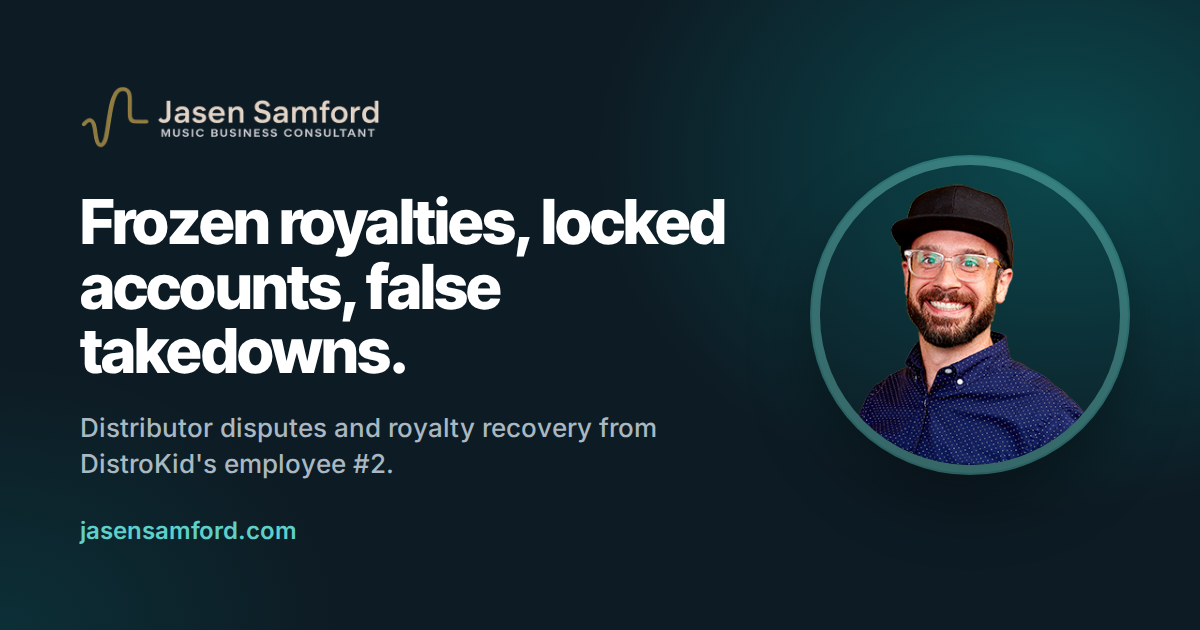
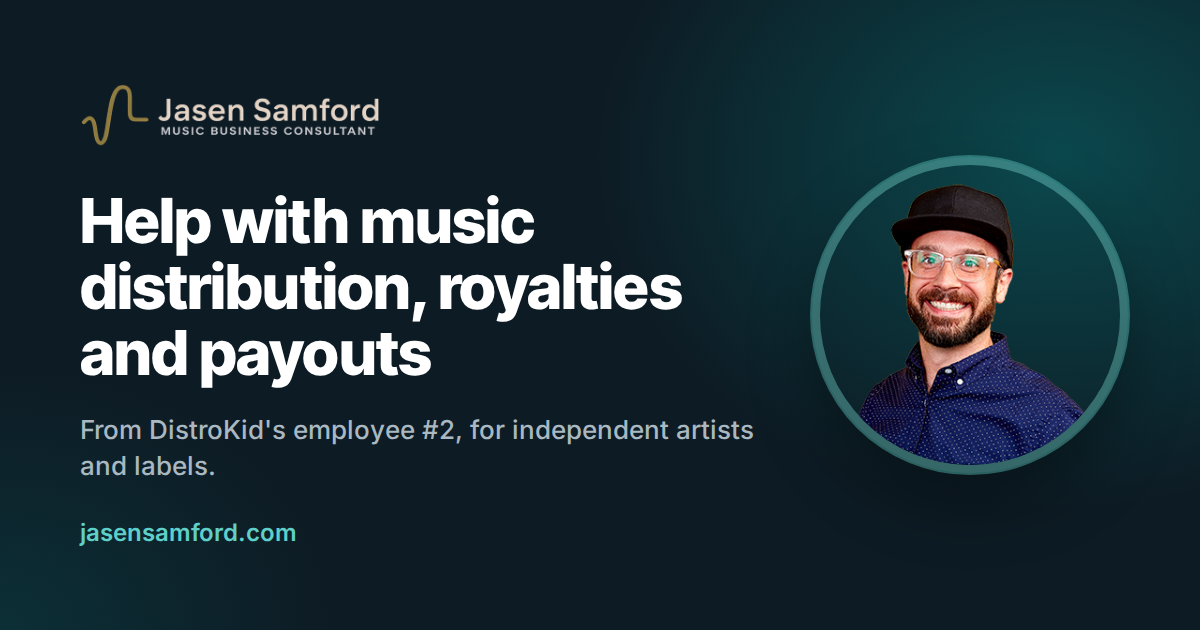
Broaden positioning and route contact through the form only
- Homepage hero now reads "Help with music distribution, royalties and
  payouts", with a subline covering payouts and release setup alongside
  disputes. The dollar-figure proof line under the hero is removed.
- Homepage title, meta and social descriptions, structured data, the
  "What I handle" heading and the Services page title match the broader
  positioning. Share image regenerated with the new headline.
- Remove "Email me" links and buttons in favor of the contact form
  (homepage, contact, FAQ, Gatefolded). The privacy policy keeps an email
  address for privacy requests.
- Test that pages other than the privacy policy have no mailto links.

Claude-Session: https://claude.ai/code/session_01Uy6bjFFUZPuMezodt21Jpk

diff --git a/index.html b/index.html
@@ -13,22 +13,22 @@
   <meta charset="utf-8" />
   <meta name="viewport" content="width=device-width, initial-scale=1, viewport-fit=cover" />
   <meta name="theme-color" content="#0d1b24" />
-  <title>Royalty Recovery and Distributor Disputes | Jasen Samford Consulting</title>
-  <meta name="description" content="Frozen royalties, locked accounts, false takedowns? Former DistroKid employee #2 helping independent artists and labels resolve distributor disputes and recover withheld earnings." />
+  <title>Music Distribution Consultant | Jasen Samford Consulting</title>
+  <meta name="description" content="Former DistroKid employee #2 helping independent artists and labels with distribution, royalties and payouts, including frozen earnings, locked accounts, takedowns and copyright claims." />
 
   <!-- Open Graph -->
   <meta property="og:type" content="website" />
   <meta property="og:url" content="https://jasensamford.com/" />
-  <meta property="og:title" content="Royalty Recovery and Distributor Disputes | Jasen Samford Consulting" />
-  <meta property="og:description" content="Frozen royalties, locked accounts, false takedowns? Former DistroKid employee #2 helping independent artists and labels resolve distributor disputes and recover withheld earnings." />
+  <meta property="og:title" content="Music Distribution Consultant | Jasen Samford Consulting" />
+  <meta property="og:description" content="Former DistroKid employee #2 helping independent artists and labels with distribution, royalties and payouts, including frozen earnings, locked accounts, takedowns and copyright claims." />
   <meta property="og:image" content="https://jasensamford.com/og-image.png" />
   <meta property="og:image:width" content="1200" />
   <meta property="og:image:height" content="630" />
 
   <!-- Twitter Card -->
   <meta name="twitter:card" content="summary_large_image" />
-  <meta name="twitter:title" content="Royalty Recovery and Distributor Disputes | Jasen Samford Consulting" />
-  <meta name="twitter:description" content="Frozen royalties, locked accounts, false takedowns? Former DistroKid employee #2 helping independent artists and labels resolve distributor disputes and recover withheld earnings." />
+  <meta name="twitter:title" content="Music Distribution Consultant | Jasen Samford Consulting" />
+  <meta name="twitter:description" content="Former DistroKid employee #2 helping independent artists and labels with distribution, royalties and payouts, including frozen earnings, locked accounts, takedowns and copyright claims." />
   <meta name="twitter:image" content="https://jasensamford.com/og-image.png" />
 
   <link rel="icon" type="image/png" href="/favicon.png" />
@@ -51,7 +51,7 @@
     "@context": "https://schema.org",
     "@type": "ProfessionalService",
     "name": "Jasen Samford Consulting",
-    "description": "Distributor dispute resolution and royalty recovery for independent artists and labels: frozen or escrowed royalties, locked accounts, false DMCA takedowns, copyright claims, fraudulent duplicates, and payout holds.",
+    "description": "Music distribution consulting for independent artists and labels: distribution, royalty and payout questions, plus dispute resolution for frozen or escrowed royalties, locked accounts, false DMCA takedowns, copyright claims, fraudulent duplicates, and payout holds.",
     "url": "https://jasensamford.com",
     "image": "https://jasensamford.com/og-image.png",
     "priceRange": "$$",
@@ -65,7 +65,7 @@
       ]
     },
     "areaServed": "Worldwide",
-    "serviceType": ["Royalty Recovery", "Distributor Dispute Resolution", "DMCA Takedown Disputes", "Copyright Claim Resolution", "Music Distribution Consulting"]
+    "serviceType": ["Music Distribution Consulting", "Royalty and Payout Troubleshooting", "Royalty Recovery", "Distributor Dispute Resolution", "DMCA Takedown Disputes", "Copyright Claim Resolution"]
   }
   </script>
 </head>
@@ -85,14 +85,11 @@
             <img src="/logo_drk_bg.png" alt="Jasen Samford, Music Business Consultant" class="hero-logo" width="640" height="140" />
           </picture>
 
-          <h1 class="hero-title">Distributor froze your royalties or took down your music?</h1>
+          <h1 class="hero-title">Help with music distribution, royalties and payouts</h1>
           <p class="hero-sub">
-            I spent almost ten years as employee #2 at DistroKid. I know how distributors handle
-            these cases, and how to get them fixed.
-          </p>
-          <p class="hero-proof">
-            $51,000+ in earnings released for one client. $10,000+ in frozen royalties recovered
-            within days for another.
+            I spent almost ten years as employee #2 at DistroKid. Now I help independent artists and
+            labels with distribution questions and problems, from payouts and release setup to frozen
+            royalties, locked accounts and takedowns.
           </p>
 
           <div class="btn-row">
@@ -113,8 +110,8 @@
       <div class="wrap">
         <div class="section-header">
           <p class="kicker">What I handle</p>
-          <h2>Disputes and recovery cases</h2>
-          <p class="section-intro">Most of my work is case-based: something has gone wrong with a distributor, and you need it resolved.</p>
+          <h2>Distribution problems I help with</h2>
+          <p class="section-intro">A lot of my work is resolving cases where something has gone wrong with a distributor.</p>
         </div>
 
         <div class="grid grid-3">
@@ -194,7 +191,7 @@
         <ol class="steps">
           <li>
             <h3>Tell me what's going on</h3>
-            <p>Use the contact form or email me. Include your distributor, what happened, and any messages you've received.</p>
+            <p>Fill out the contact form with your distributor, what happened, and any messages you've received.</p>
           </li>
           <li>
             <h3>$175 opens your case</h3>
@@ -342,7 +339,6 @@
         </div>
         <div class="btn-row center">
           <a href="/contact/" class="btn btn-primary">Get started</a>
-          <a href="mailto:jasen@jasensamford.com" class="btn btn-ghost">Email me</a>
         </div>
       </div>
     </section>

diff --git a/tests/structure.test.js b/tests/structure.test.js
@@ -313,6 +313,25 @@ describe("Site consistency", () => {
   );
 });
 
+describe("Contact routing", () => {
+  const pages = [
+    "index.html",
+    "about/index.html",
+    "services/index.html",
+    "faq/index.html",
+    "checklist/index.html",
+    "gatefolded/index.html",
+    "contact/index.html",
+    "contact/thanks/index.html",
+    "404.html",
+    "nav.html",
+  ];
+
+  test.each(pages)("%s sends people to the contact form, not email", (file) => {
+    expect(readFile(file)).not.toContain("mailto:");
+  });
+});
+
 describe("Contact form", () => {
   const html = readFile("contact/index.html");
 

diff --git a/faq/index.html b/faq/index.html
@@ -203,7 +203,7 @@
 
         <div class="card center" style="margin-top:2.5rem;">
           <h2>Still have questions?</h2>
-          <p class="muted">Send me an email at <a href="mailto:jasen@jasensamford.com">jasen@jasensamford.com</a>. I'm happy to answer questions before you get started.</p>
+          <p class="muted">Send me a note through the <a href="/contact/">contact form</a>. I'm happy to answer questions before you get started.</p>
           <div class="btn-row center">
             <a href="/contact/" class="btn btn-primary">Get started</a>
           </div>

diff --git a/services/index.html b/services/index.html
@@ -49,7 +49,7 @@
     <header class="page-header">
       <div class="wrap">
         <p class="kicker">Services</p>
-        <h1>Distributor disputes and royalty recovery</h1>
+        <h1>Distribution, royalty and payout help</h1>
         <p class="page-header-sub">
           For independent artists, labels, and the managers and lawyers who represent them.
           I work each case by email and escalate through my distributor contacts.

diff --git a/gatefolded/index.html b/gatefolded/index.html
@@ -101,7 +101,7 @@
           Learn more at gatefolded.com<span class="sr-only"> (opens in new tab)</span>
         </a>
       </div>
-      <p class="muted" style="margin-top:1.25rem;">Questions? <a href="mailto:jasen@jasensamford.com">Email me</a>.</p>
+      <p class="muted" style="margin-top:1.25rem;">Questions? <a href="/contact/">Get in touch</a>.</p>
     </section>
     </div>
     </div>

diff --git a/style.css b/style.css
@@ -462,14 +462,6 @@ summary:focus-visible {
   max-width:40ch;
   margin:0;
 }
-.hero-proof {
-  margin:1.5rem 0 0;
-  padding-left:.9rem;
-  border-left:3px solid var(--accent-on-dark);
-  color:var(--ink-text);
-  font-weight:500;
-  max-width:44ch;
-}
 .hero-photo {
   justify-self:center;
   order:-1;

diff --git a/contact/index.html b/contact/index.html
@@ -137,7 +137,6 @@
         </form>
 
         <p class="form-note">
-          Prefer email? Write to <a href="mailto:jasen@jasensamford.com">jasen@jasensamford.com</a>.
           See the <a href="/privacy/">privacy policy</a> for how form submissions are handled.
         </p>
       </div>
